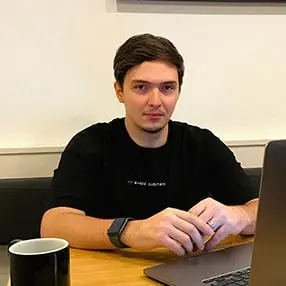
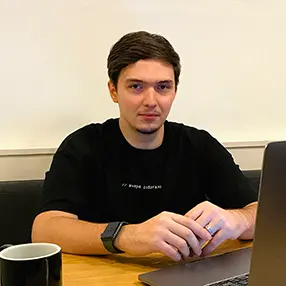
Fix age and change photo

diff --git a/src/components/bio/bio.component.jsx b/src/components/bio/bio.component.jsx
@@ -4,7 +4,7 @@ export const BIO = () => {
     return (
         <div className="bio">
             <div className="bio__first">
-                <h1 className="bio__name">Sergey Razdolyanskiy</h1><span>(26 y.o.)</span>
+                <h1 className="bio__name">Sergey Razdolyanskiy</h1><span>(25 y.o.)</span>
             </div>
             <div className="bio__job-title job-title">
                 <p className="job-title__value">FRONT-END DEVELOPER</p>
